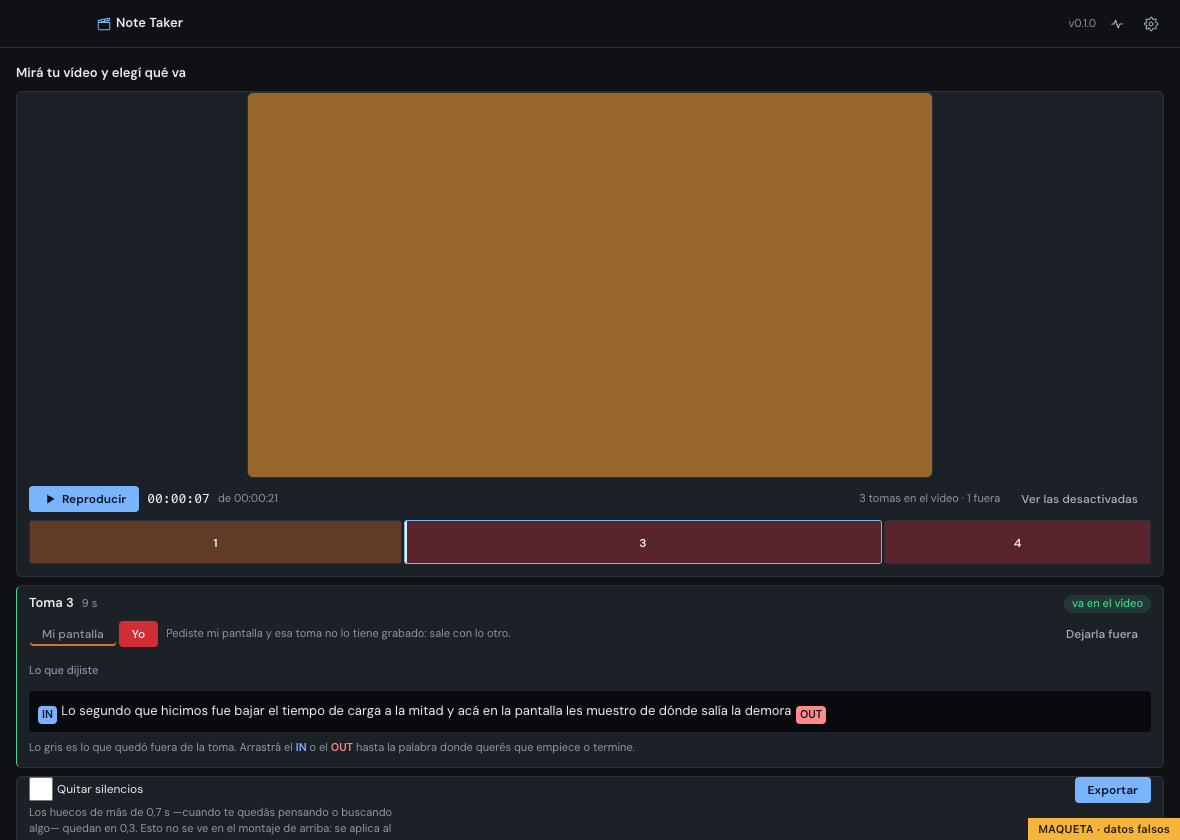
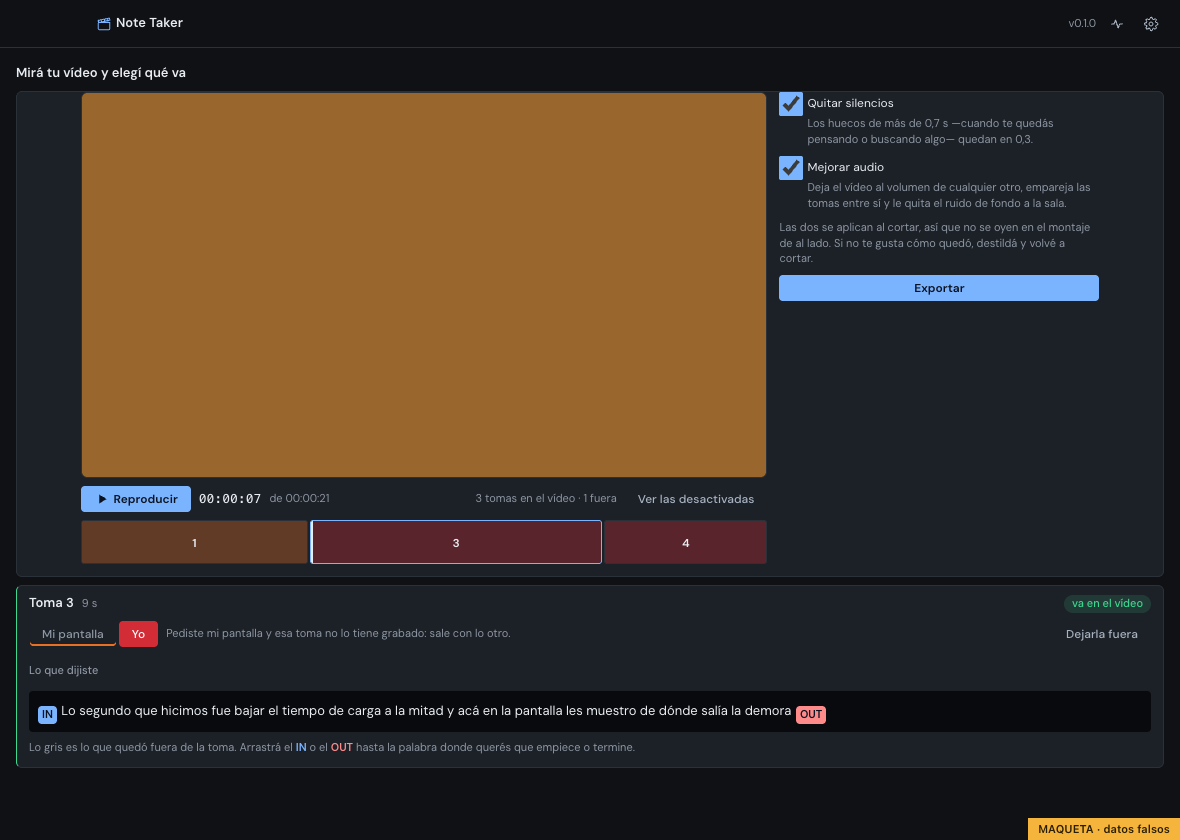
Las opciones y Exportar, al lado del reproductor y no debajo
Estaban debajo del todo —montaje, línea de tomas y ficha de la toma— y en una
ventana normal eso dejaba el botón que termina el trabajo fuera de la
pantalla, sin nada que diera a entender que había algo más abajo: había que
adivinar que tocaba hacer scroll.

El montaje es 16:9 con el alto por techo, así que a partir de cierto ancho le
sobra el espacio de los costados. La columna de la derecha lo ocupa, y no le
quita sitio a nada. Cuando la ventana se estrecha y ya no caben los dos, se
va debajo sola: es flex envolviendo, no un punto de corte escrito a mano.

Y la barra del reproductor ahora envuelve, que con la columna al lado puede
quedarse con poco ancho y el reloj partido en dos renglones se lee peor que
el mismo reloj en una fila de abajo.

Auditoría, 2775 cajas y probar-editor, todo dentro de la vara.

diff --git a/src/js/semanal/tarjetas.js b/src/js/semanal/tarjetas.js
@@ -427,10 +427,13 @@ export function tarjetaRevisar(estado) {
     const t = corte.laParada(todas, estado.ficha);
     return `
       <div class="tarjeta">
-        <div class="tarjeta-cuerpo">
-          <div id="semanal-montaje" class="montaje-hueco"></div>
-          ${barraDelMontaje(estado, todas, van)}
-          ${lineaDeTomas(estado, todas)}
+        <div class="tarjeta-cuerpo revisar-fila">
+          <div class="revisar-video">
+            <div id="semanal-montaje" class="montaje-hueco"></div>
+            ${barraDelMontaje(estado, todas, van)}
+            ${lineaDeTomas(estado, todas)}
+          </div>
+          ${ladoDeExportar(estado, van)}
         </div>
       </div>
       ${t ? tarjetaDeLaToma(estado, t) : `
@@ -439,40 +442,49 @@ export function tarjetaRevisar(estado) {
           <span class="v2">No queda ninguna toma en el vídeo. Volvé a meter alguna de las que
             dejaste fuera, o grabá otro.</span>
         </div>
-      </div>`}
-      <div class="tarjeta">
-        <div class="tarjeta-cuerpo">
-          <div class="campo-fila" style="align-items:flex-start">
-            <div class="semanal-casillas">
-              <div>
-                <label class="semanal-casilla">
-                  <input type="checkbox" data-campo="silencios" ${estado.silencios ? 'checked' : ''}>
-                  <span>Quitar silencios</span>
-                </label>
-                <p class="v3">Los huecos de más de 0,7 s —cuando te quedás pensando o buscando
-                  algo— quedan en 0,3.</p>
-              </div>
-              <div>
-                <label class="semanal-casilla">
-                  <input type="checkbox" data-campo="mejorar-audio"
-                         ${estado.mejorarAudio ? 'checked' : ''}>
-                  <span>Mejorar audio</span>
-                </label>
-                <p class="v3">Deja el vídeo al volumen de cualquier otro, empareja las tomas
-                  entre sí y le quita el ruido de fondo a la sala.</p>
-              </div>
-              <p class="v3">Las dos se aplican al cortar, así que no se oyen en el montaje de
-                arriba. Si no te gusta cómo quedó, destildá y volvé a cortar.</p>
-            </div>
-            <span class="crece"></span>
-            <button class="btn btn-primario" type="button" data-hace="exportar" ${van.length ? '' : 'disabled'}
-                    title="${van.length
-                        ? 'Corta las tomas, las pega y deja el MP4 listo para subir'
-                        : 'No queda ninguna toma: volvé a meter alguna o grabá otro'}">
-              Exportar</button>
-          </div>
+      </div>`}`;
+}
+
+/**
+ * Lo que hay que decidir antes de exportar, al lado del reproductor.
+ *
+ * Estaba debajo del todo, después del montaje, de la línea de tomas y de la
+ * ficha de la toma, y en una ventana normal eso lo dejaba fuera de la
+ * pantalla: había que hacer scroll para encontrar el botón que termina el
+ * trabajo, sin nada que diera a entender que había algo más abajo.
+ *
+ * Acá al lado no hace falta robarle sitio a nada. El montaje es 16:9 con el
+ * alto por techo, así que a partir de cierto ancho le sobra el espacio de los
+ * costados; esta columna lo ocupa. Cuando la ventana se estrecha y ya no
+ * caben los dos, la columna se va debajo sola (`.revisar-fila` envuelve).
+ */
+function ladoDeExportar(estado, van) {
+    return `
+      <aside class="revisar-lado" aria-label="Antes de exportar">
+        <div class="revisar-opciones">
+          <label class="semanal-casilla">
+            <input type="checkbox" data-campo="silencios" ${estado.silencios ? 'checked' : ''}>
+            <span>Quitar silencios</span>
+          </label>
+          <p class="v3">Los huecos de más de 0,7 s —cuando te quedás pensando o buscando algo—
+            quedan en 0,3.</p>
+          <label class="semanal-casilla">
+            <input type="checkbox" data-campo="mejorar-audio"
+                   ${estado.mejorarAudio ? 'checked' : ''}>
+            <span>Mejorar audio</span>
+          </label>
+          <p class="v3">Deja el vídeo al volumen de cualquier otro, empareja las tomas entre sí
+            y le quita el ruido de fondo a la sala.</p>
         </div>
-      </div>`;
+        <p class="v3">Las dos se aplican al cortar, así que no se oyen en el montaje de al lado.
+          Si no te gusta cómo quedó, destildá y volvé a cortar.</p>
+        <button class="btn btn-primario revisar-exportar" type="button" data-hace="exportar"
+                ${van.length ? '' : 'disabled'}
+                title="${van.length
+                    ? 'Corta las tomas, las pega y deja el MP4 listo para subir'
+                    : 'No queda ninguna toma: volvé a meter alguna o grabá otro'}">
+          Exportar</button>
+      </aside>`;
 }
 
 /** Reproducir, dónde va, y si se ven las que dejé fuera. */

diff --git a/src/css/style.css b/src/css/style.css
@@ -2168,27 +2168,70 @@ kbd {
   height: 94px;
 }
 
-/* Las dos casillas de la revisión: «Quitar silencios» y «Mejorar audio».
+/* El reproductor y, a su lado, lo que hay que decidir antes de exportar.
 
-   En columna y no en fila: cada una lleva debajo la línea que dice qué hace,
-   y esa línea tiene que quedar pegada a SU casilla. Una al lado de la otra,
-   a 900 px los dos párrafos se estrechan hasta partir cada frase en cinco
-   renglones. */
-.semanal-casillas {
+   El montaje es 16:9 con el alto por techo, así que a partir de cierto ancho
+   le sobra el espacio de los costados. Ahí va la columna de la derecha, que
+   antes estaba debajo de todo —montaje, línea de tomas y ficha de la toma— y
+   en una ventana normal quedaba fuera de la pantalla: había que adivinar que
+   el botón que termina el trabajo estaba más abajo.
+
+   Envuelve sola cuando no caben los dos. El `420px` de base no es un número
+   redondo: por debajo de eso el montaje se hace tan chico que ya no se puede
+   juzgar un encuadre, que es para lo único que está. */
+.revisar-fila {
+  display: flex;
+  flex-wrap: wrap;
+  justify-content: center;
+  align-items: flex-start;
+  gap: var(--sp-4);
+}
+
+.revisar-video {
+  flex: 1 1 420px;
+  min-width: 0;
+  /* El mismo techo que `.montaje`: sin él la columna crece de más y el vídeo
+     queda flotando en el medio con aire a los dos lados. */
+  max-width: calc(46vh * 16 / 9);
+}
+
+.revisar-lado {
   display: flex;
   flex-direction: column;
-  gap: var(--sp-2);
-  max-width: 52ch;
+  gap: var(--sp-3);
+  flex: 1 1 240px;
+  /* Más ancha no se lee mejor: los párrafos de debajo de cada casilla son de
+     dos renglones y estirarlos solo aleja la casilla de su explicación. */
+  max-width: 320px;
 }
 
-.semanal-casillas .v3 {
-  margin: 2px 0 0;
+.revisar-opciones {
+  display: flex;
+  flex-direction: column;
 }
 
-/* El último párrafo es de las dos, así que se separa un poco más de la
-   segunda de lo que la segunda se separa de su propio rótulo. */
-.semanal-casillas > .v3 {
-  margin-top: var(--sp-1);
+/* La explicación va pegada a SU casilla y separada de la siguiente: sin esto
+   las dos parejas se leen como un bloque de cuatro cosas sueltas. */
+.revisar-opciones .v3 {
+  margin: 0 0 var(--sp-3);
+  padding-left: calc(var(--target-min) + var(--sp-2));
+}
+
+.revisar-opciones .v3:last-child {
+  margin-bottom: 0;
+}
+
+/* El botón ocupa la columna entera: es la única cosa de esta pantalla que
+   termina el trabajo, y a media columna se confundiría con un botón más. */
+.revisar-exportar {
+  width: 100%;
+  justify-content: center;
+}
+
+/* El último párrafo es de las dos casillas y va antes del botón: el botón
+   tiene que ser lo último que se lee, porque es lo último que se hace. */
+.revisar-lado > .v3 {
+  margin: 0;
 }
 
 /* Va con la casilla del sistema y no con una dibujada: el estado marcado /
@@ -2324,6 +2367,11 @@ kbd {
 .montaje-barra {
   margin-top: var(--sp-3);
   align-items: center;
+  /* Envuelve: con la columna de exportar al lado, el reproductor puede
+     quedarse con poco ancho, y el reloj partido en dos renglones se lee peor
+     que el mismo reloj en una fila de abajo. */
+  flex-wrap: wrap;
+  row-gap: var(--sp-2);
 }
 
 /* El reloj del montaje, un punto por encima del resto: es lo que se mira de

diff --git a/README.md b/README.md
@@ -194,6 +194,15 @@ se ve entero, incluidos los repuestos —una toma que pidió la cámara y no la
 tiene sale con la pantalla—. El navegador solo busca ese segundo y pone los
 dos `<video>` donde el motor dijo. Así lo que se mira es lo que va a salir.
 
+**Las dos casillas y el botón de exportar van a la derecha del reproductor**,
+no debajo. Estaban debajo del todo —después del montaje, de la línea de tomas
+y de la ficha de la toma— y en una ventana normal eso dejaba fuera de la
+pantalla el botón que termina el trabajo, sin nada que diera a entender que
+había algo más abajo. El montaje es 16:9 con el alto por techo, así que a
+partir de cierto ancho le sobra el espacio de los costados y ahí no le quita
+sitio a nada. Cuando la ventana se estrecha y ya no caben los dos, la columna
+se va debajo sola: es flex envolviendo, no un punto de corte escrito a mano.
+
 ### «Quitar silencios»
 
 Una de las dos casillas de la revisión, **encendida de fábrica**. Saca los
